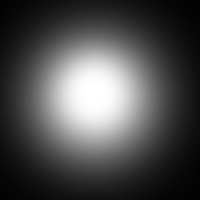
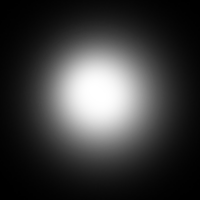
position right

Changed region(s): [[0.03, 0.06, 0.6, 0.9]]

diff --git a/index.html b/index.html
@@ -9,9 +9,10 @@
     <script src="https://cdnjs.cloudflare.com/ajax/libs/three.js/r126/three.module.min.js" integrity="sha512-NLZbIaXz7478HOc7l9TPPedN72kLMm2pLk3t2Tnx4bMoDfi8/D/FEaUgB775fY/jPqJK4wuZgDgL6F30sSRrSg==" crossorigin="anonymous"></script>
     <script src="https://cdn.jsdelivr.net/npm/three-gltf-loader@1.111.0/index.min.js"></script>  
     
+    
 </head>
 <body>
-    <h1> terrain</h1>
+  
     <canvas class="webgl"></canvas>
     <script src="./JS/script.js"></script>
       

diff --git a/JS/script.js b/JS/script.js
@@ -56,14 +56,14 @@ scene.add(pointLight)
  * Sizes
  */
 const sizes = {
-    width: window.innerWidth,
+    width: window.innerWidth * .7,
     height: window.innerHeight
 }
 
 window.addEventListener('resize', () =>
 {
     // Update sizes
-    sizes.width = window.innerWidth
+    sizes.width = window.innerWidth * .7
     sizes.height = window.innerHeight
 
     // Update camera

diff --git a/style.css b/style.css
@@ -16,7 +16,7 @@ body
 {
     position: fixed;
     top: 0;
-    left: 0;
+    right: 0;
     outline: none;
   
 }
